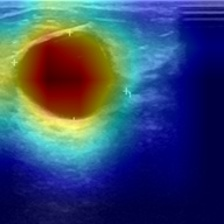
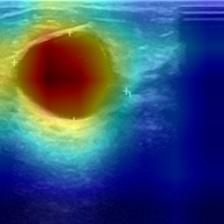
fix: Changed to GradCAMPlusPlus for densenet

diff --git a/src/explainability/gradcam_densenet.py b/src/explainability/gradcam_densenet.py
@@ -5,7 +5,7 @@ from PIL import Image
 from torchvision import transforms
 from pathlib import Path
 
-from pytorch_grad_cam import GradCAM
+from pytorch_grad_cam import GradCAMPlusPlus
 from pytorch_grad_cam.utils.image import show_cam_on_image
 
 from src.models.model import get_densenet
@@ -41,7 +41,7 @@ image = Image.open(image_path).convert("RGB")
 input_tensor = transform(image).unsqueeze(0).to(device)
 
 # Grad-CAM
-cam = GradCAM(model=model, target_layers=target_layers)
+cam = GradCAMPlusPlus(model=model, target_layers=target_layers)
 
 grayscale_cam = cam(input_tensor=input_tensor)[0]
 
